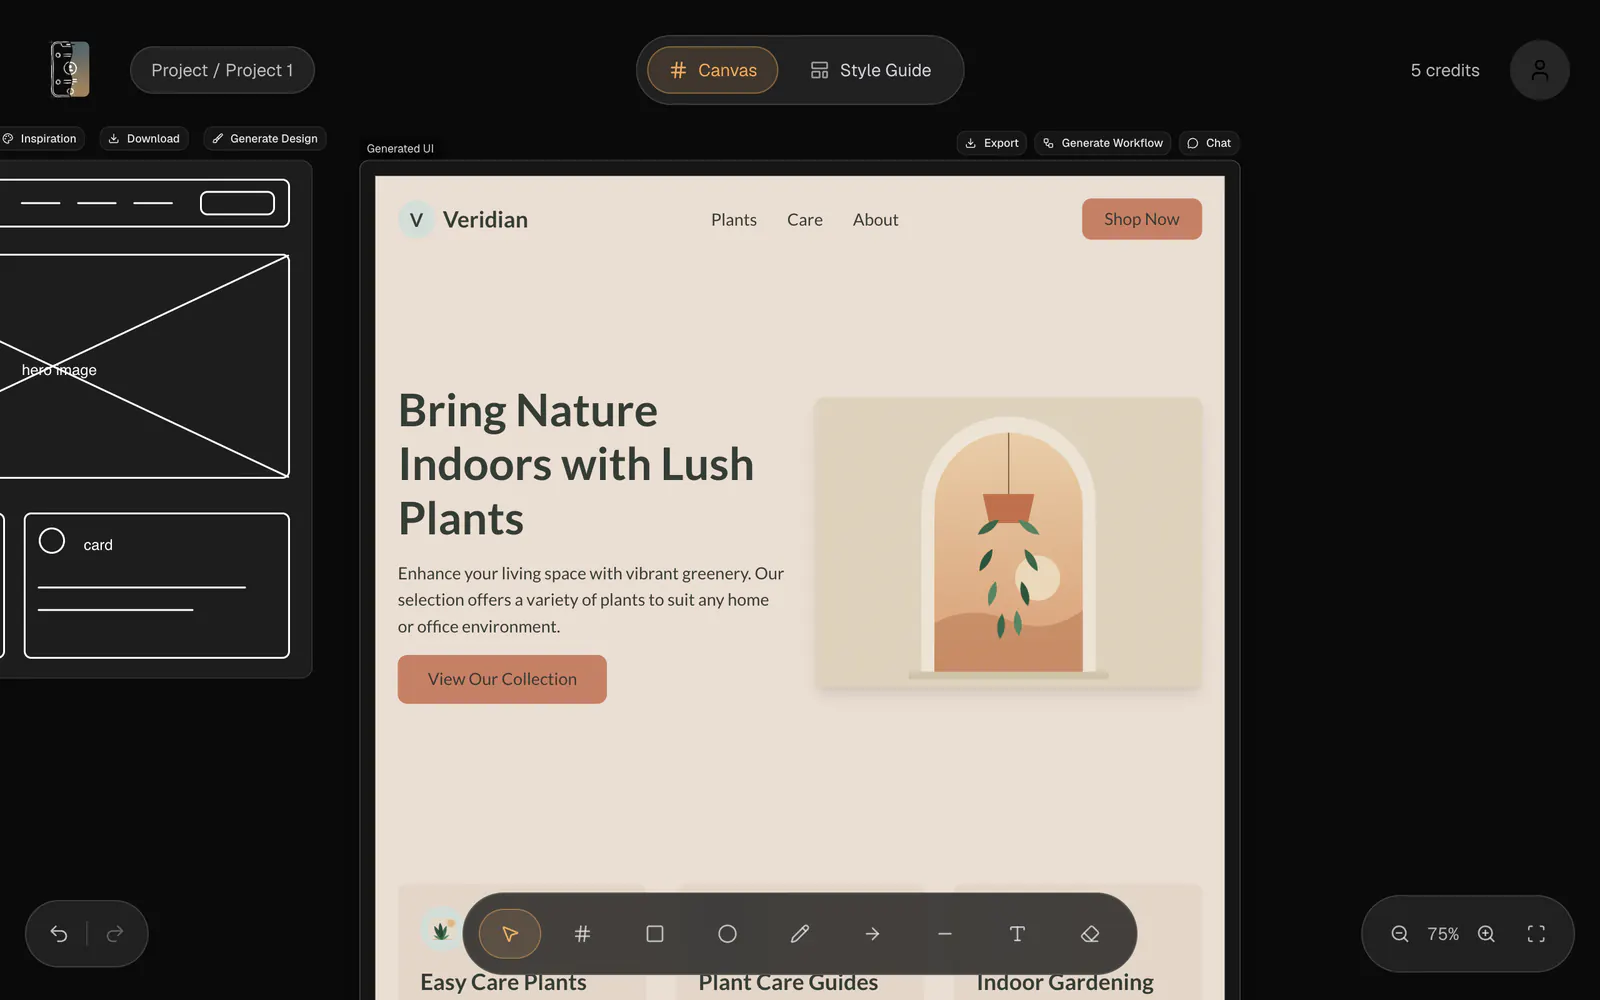
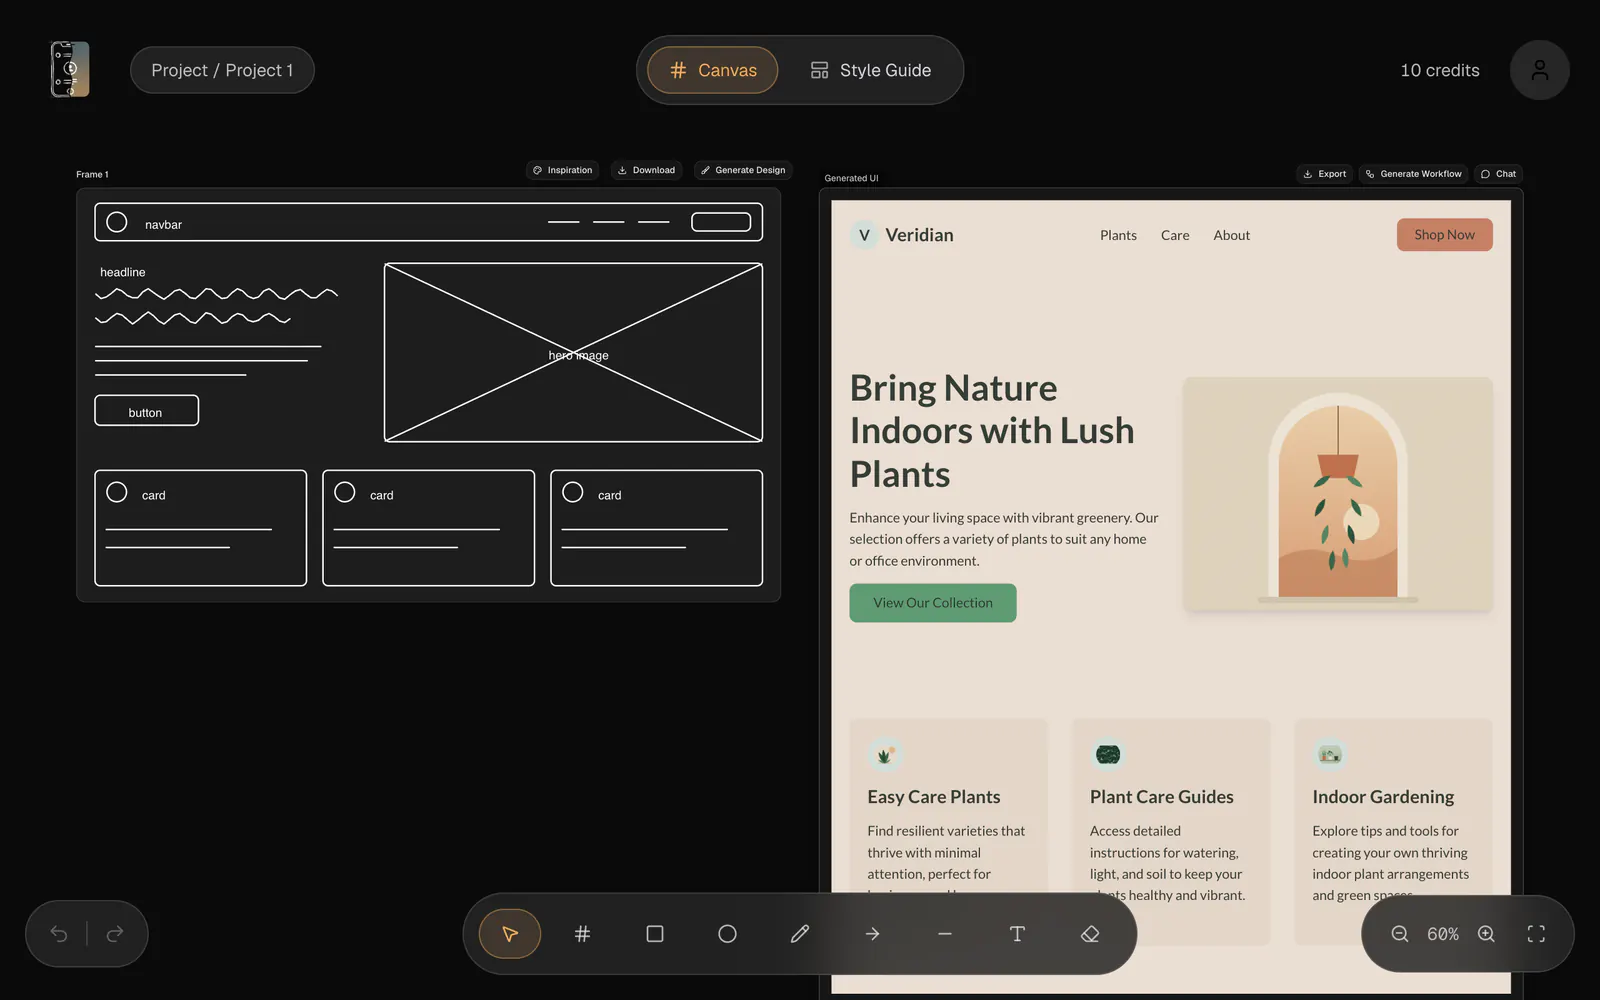
chore: recapture the landing screenshots at 10 credits, sketch whole
Every screenshot that showed the app's header showed the dev demo account
nearly out of credits (4, 5 or 6), and step 3, the chat shot and two of the
hero's floating pages cut the wireframe off at the left. All are recaptured
from the same Veridian demo:

- the account at its 10 free credits; the chat shot shows 9, after its
  refine spent one
- step 3 shows the sketch and the page beside it, both whole
- for the sketch alone, the page was dragged aside and back, so no strip of
  it shows; the inspiration board sits beside the sketch, not over it
- the chat shot has the new neutral bubble and brass send button, and a new
  request (a soft sage green hero), so step 4 visibly changes the page; the
  sketch is fully out of view

The proof pair and the floating sketch and page crops show no header and
are unchanged. The hero's sized copies are remade from the new original.

diff --git a/src/components/landing/how-it-works.tsx b/src/components/landing/how-it-works.tsx
@@ -25,13 +25,13 @@ const steps = [
         title: "Generate the page",
         text: "Linea turns the frame into a full HTML/CSS page in your style.",
         image: "/images/landing/step-generated.webp",
-        alt: "The page Linea generated from the wireframe: a plant shop's homepage with a navbar, headline, button, hero illustration and cards.",
+        alt: "The wireframe on Linea's canvas beside the page Linea generated from it: a plant shop's homepage with a navbar, headline, button, hero illustration and cards.",
     },
     {
         title: "Refine and export",
         text: "Describe a change and the design updates in place. Download any design or frame as an image.",
         image: "/images/landing/step-chat.webp",
-        alt: "Linea's chat beside the page, asked to move the cards up under the hero and make the main button sage green, after it regenerated the design.",
+        alt: "Linea's chat beside the page, asked to give the hero section a soft sage green background and keep everything else as it is, after it regenerated the design.",
     },
 ]
 
